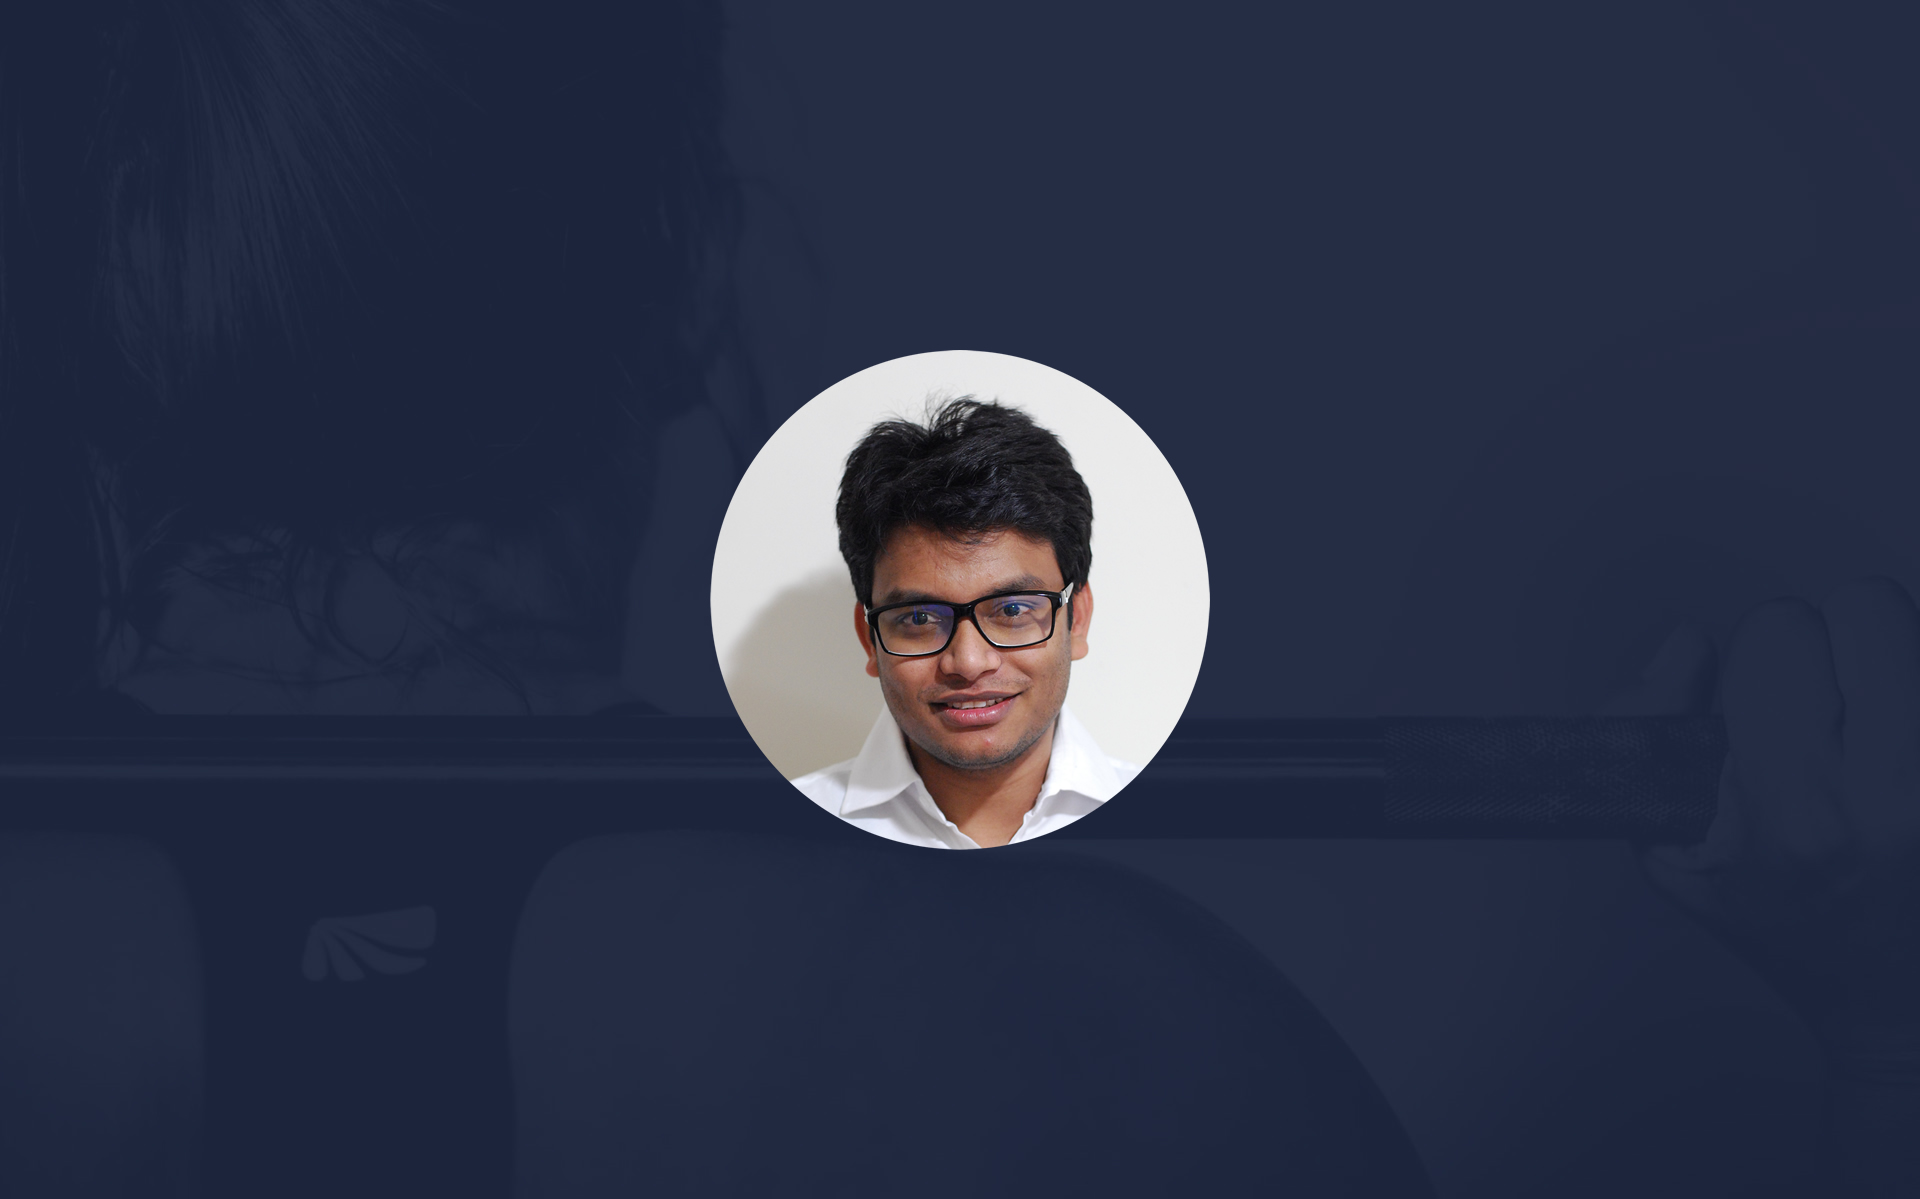
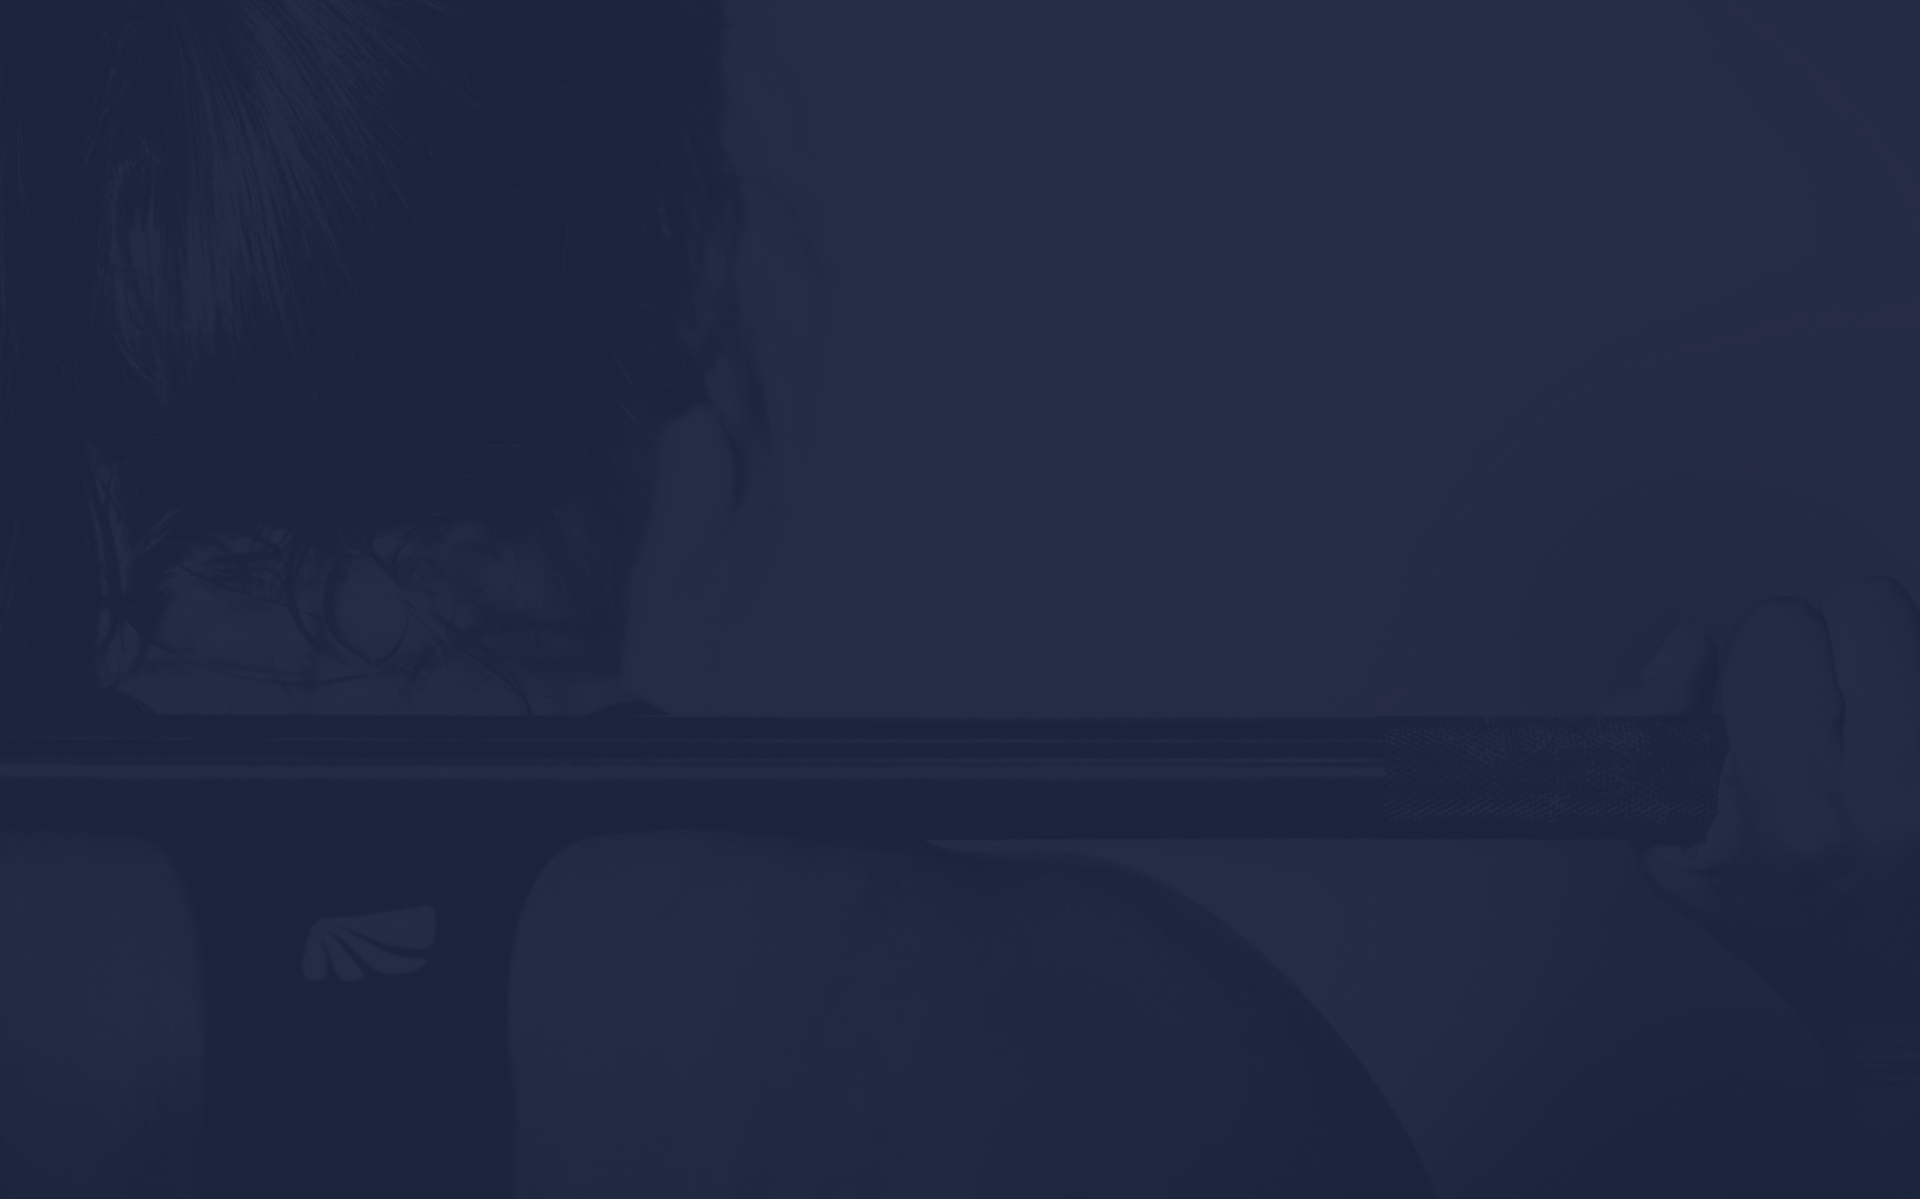
add images

Changed region(s): [[0.3438, 0.2777, 0.6562, 0.7098]]

diff --git a/index.html b/index.html
@@ -53,11 +53,10 @@
 			<!-- Collect the nav links, forms, and other content for toggling -->
 			<div class="collapse navbar-collapse" id="bs-example-navbar-collapse-1">
 				<ul class="nav navbar-nav navbar-right main-nav">
-					<li><a href="#intro">Intro</a></li>
-					<li><a href="#services">Services</a></li>
-					<li><a href="#team">Team</a></li>
-					<li><a href="#pricing">Pricing</a></li>
-					<li><a href="#" data-toggle="modal" data-target="#modal1" class="btn btn-blue">Sign Up</a></li>
+					<li><a href="#intro">INTRO</a></li>
+					<li><a href="#services">ABOUT</a></li>
+					<li><a href="#team">REFERENCES</a></li>
+					<li><a href="#pricing">CONTACT</a></li>
 				</ul>
 			</div>
 			<!-- /.navbar-collapse -->
@@ -70,13 +69,13 @@
 				<div class="header-text">
 					<div class="row">
 						<div class="col-md-12 text-center">
-							<h3 class="light white">Take care of your body.</h3>
-							<h1 class="white typed">
+							<!--<h3 class="light white">Take care of your body.</h3>-->
+							<h2 class="light  white typed">
 								Hello, I am Ripon. I love building standard compliant websites. I mostly do front-end web 
 								development (HTML5, CSS3, Javascript and JQuery) and sometimes I get my hands dirty with 
-								pixel-perfect Web Design (mostly in Fireworks). I have also done some WordPress & Shopify development. 
+								pixel-perfect Web Design (mostly in Fireworks). I have also done some WordPress &amp; Shopify development. 
 								For more inquiry about my experience please send me an email at: mdabdulripon@gmail.com
-							</h1>
+							</h2>
 							<span class="typed-cursor">|</span>
 						</div>
 					</div>

diff --git a/css/main.css b/css/main.css
@@ -114,7 +114,7 @@ header {
 	width: 100%;
 	color: white;
 	background: rgba(28, 36, 65, 0.93);
-	background: url('../img/header.jpg');
+	background: url('../img/header02.jpg');
 	background-size: cover;
 }
 
